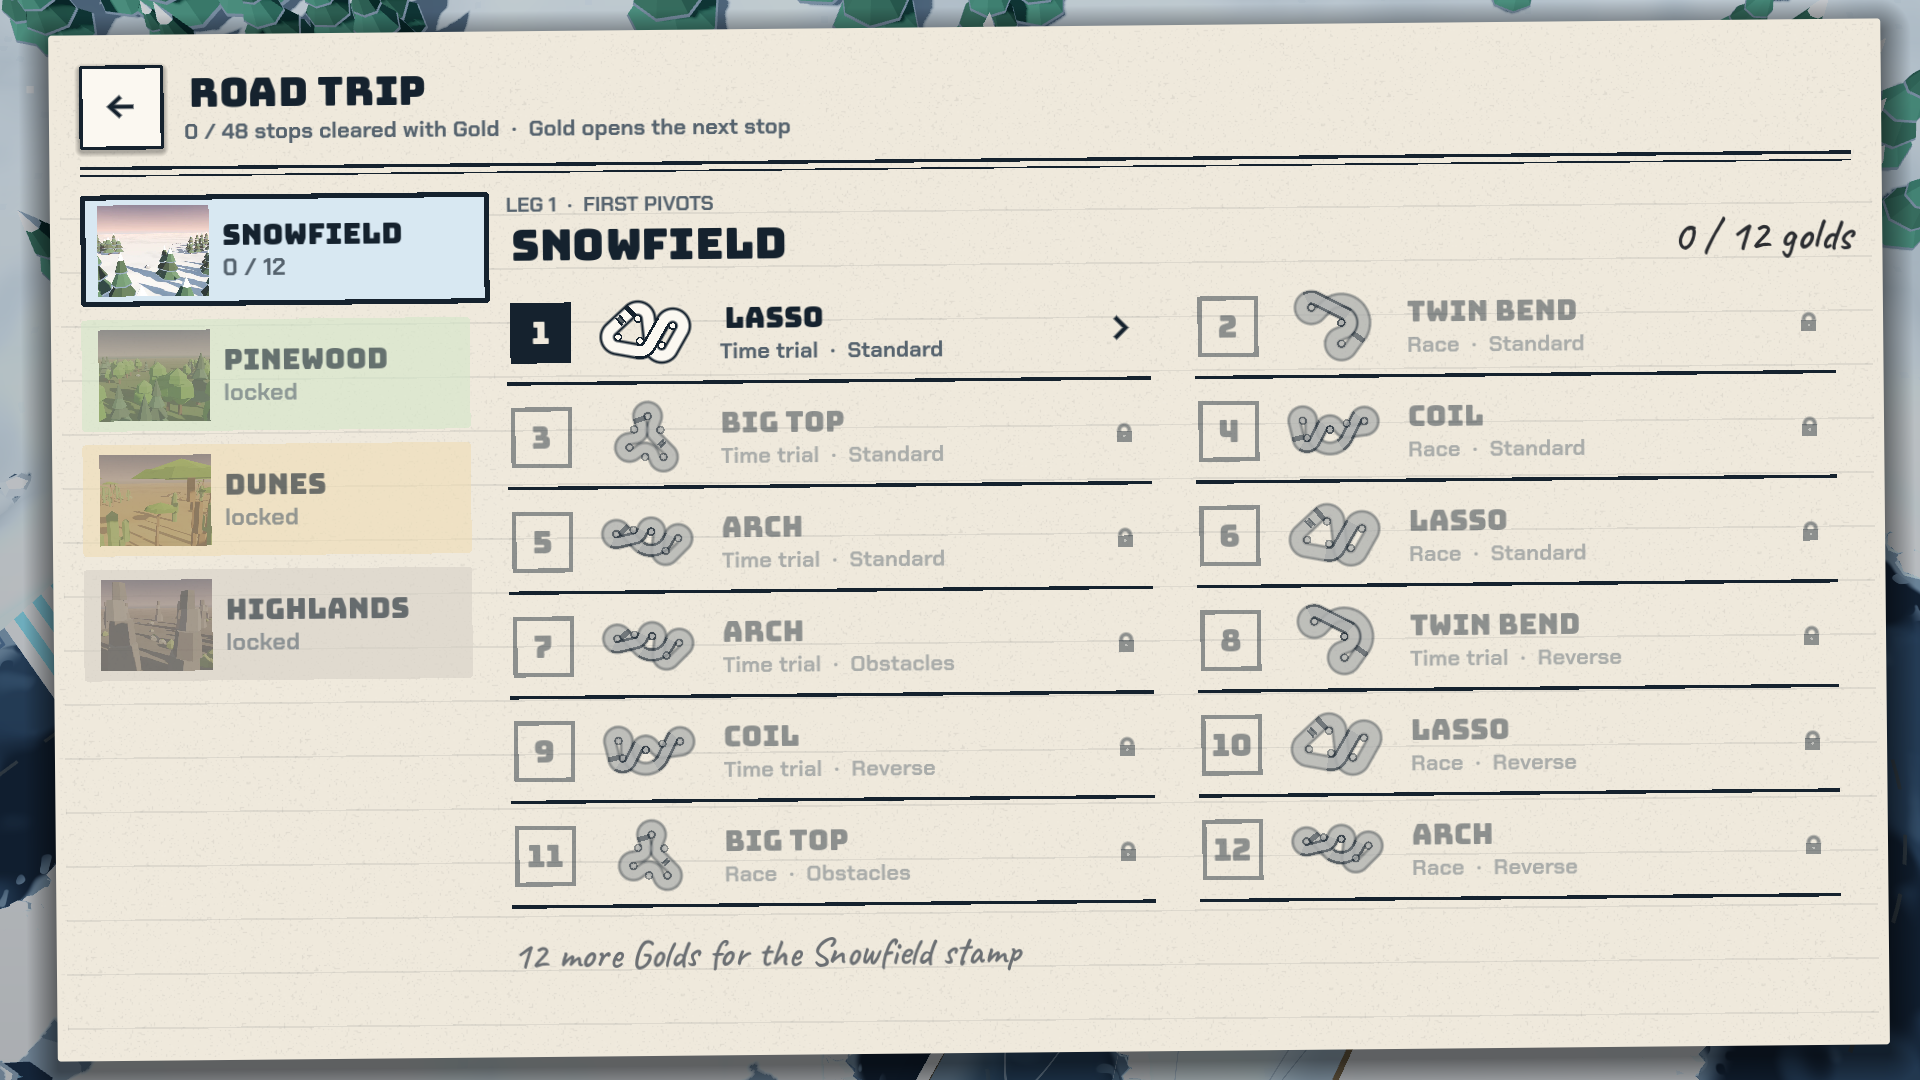
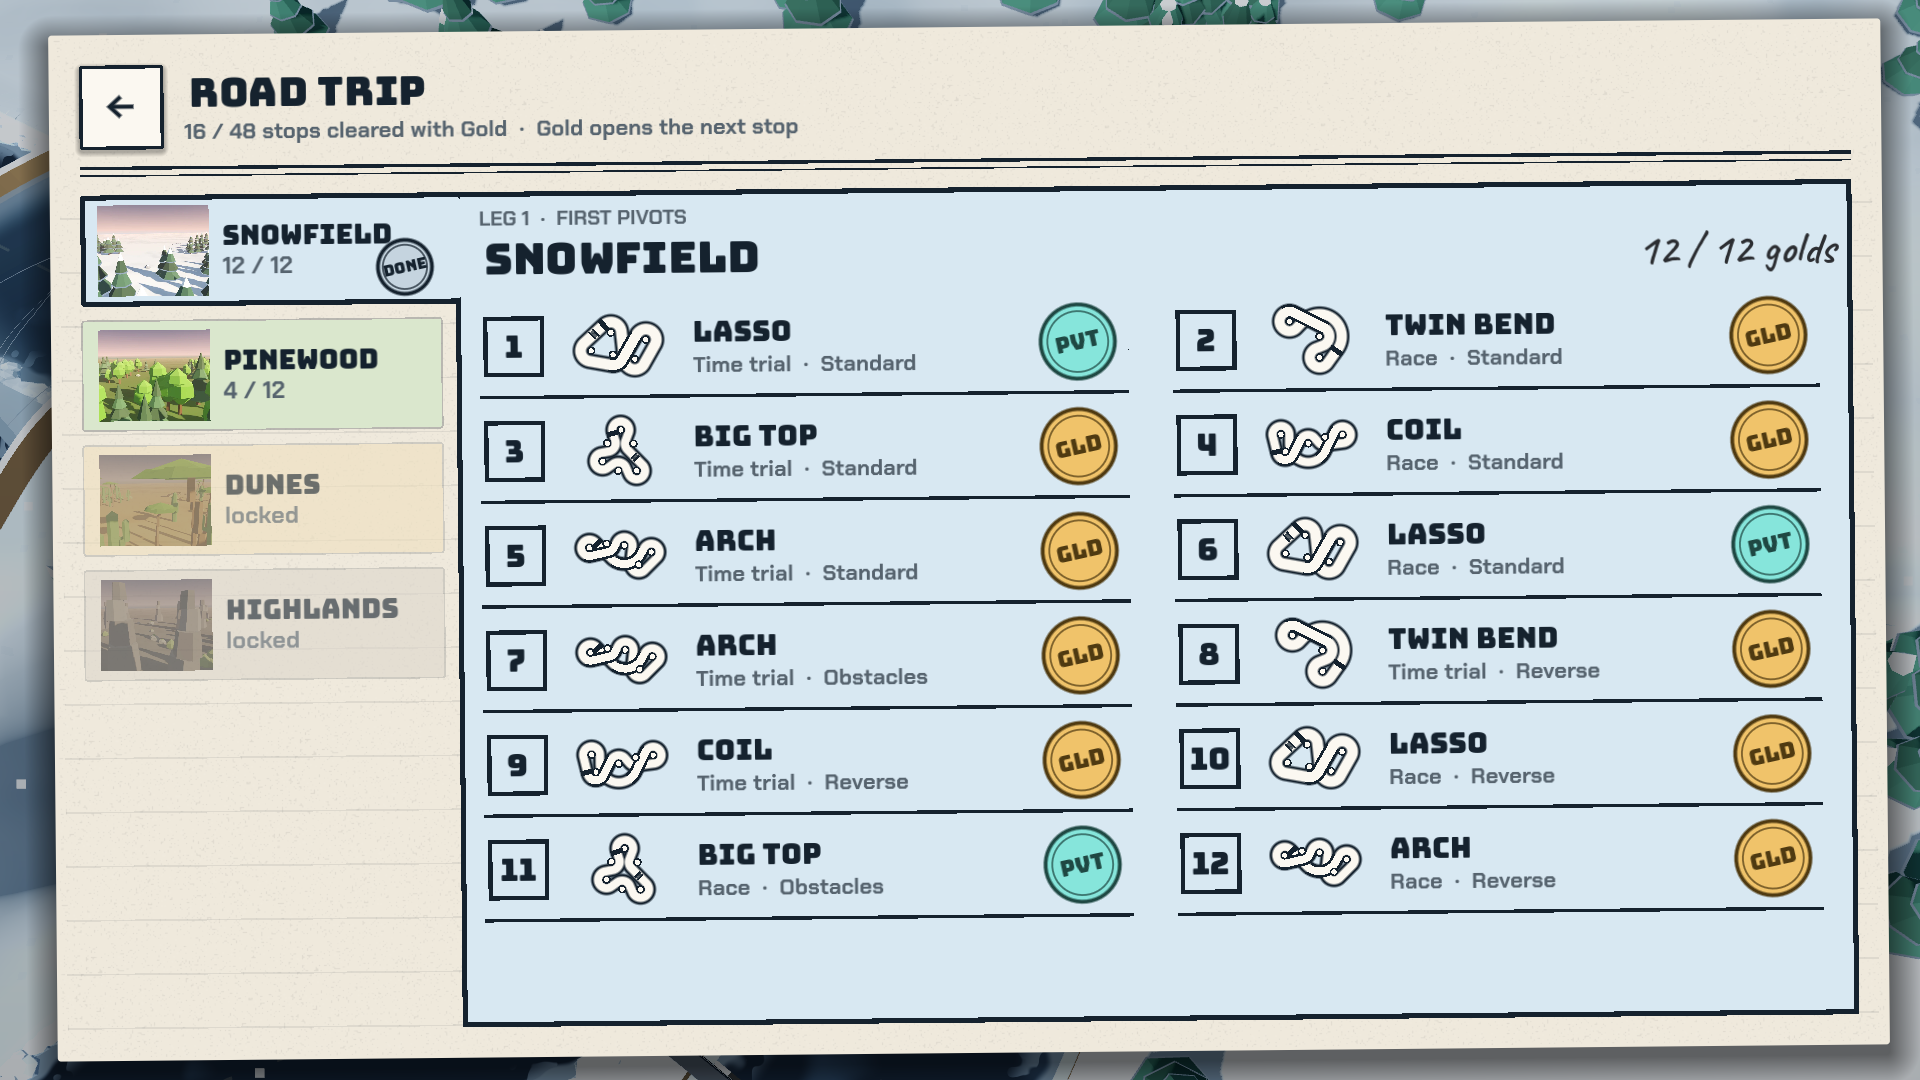
Road Trip in its worlds' colours: tinted divider pages, coloured medal stamps, world tape (#90)
Each world's stops lie on a page in that world's tint, joined to its open
tab like a notebook divider; portrait shows the world's photo by its name,
the name has a marker in the world's colour, medals are stamped filled in
their own metal and open worlds' photos are held by tape in their colour.
A phone held sideways gets one column of stops so names are no longer cut.
Store screenshot 06 re-rendered; test tests/road_trip_colour_test.gd.

Claude-Session: https://claude.ai/code/session_01VxP4fqdAPuwWpkdYV4h3gM

diff --git a/AGENTS.md b/AGENTS.md
@@ -66,6 +66,7 @@ godot --headless --path . --script tests/obstacles_test.gd # the AI's line never
 godot --headless --path . --script tests/camera_test.gd    # low camera shots: off while racing, never inside the land
 godot --headless --path . --script tests/engine_test.gd    # every vehicle has an engine sound that loops cleanly
 godot --headless --path . --script tests/underpass_test.gd # all deck over a lower lane is a see-through window
+godot --headless --path . --script tests/road_trip_colour_test.gd # Road Trip pages in their world's colour, stop names fit
 ```
 
 After changing a track layout, rerun `tools/gen_obstacles.gd` (posts placed off the AI's racing line,
@@ -139,6 +140,12 @@ Only redo the ones where the change is visible, and put before/after images in t
   Gold on all 12 events finishes a world (`Campaign.cleared`, `Campaign.GOLD`). Finished worlds are
   saved as `done_<theme>` flags, so a stricter rule never re-locks a world; an event that already
   has a medal stays playable. Covered by `tests/economy_test.gd`.
+- World colour on paper (Guillaume, 2026-11-14: the Road Trip page "looked sad"): colour on the
+  menus comes from content, never from a UI accent. A world's own colours are `Menu.WORLD_TINT`
+  (pale page/tab) and `Menu.WORLD_INK` (its marker band and its photo tape, `Menu.world_tape()`);
+  medals are stamped filled in their metal (`Menu.medal_stamp()`, `Stamp.fill`). The Road Trip
+  events lie on a page in the open world's tint, joined to its tab like a notebook divider.
+  Landscape on a phone (~800 logical px wide) gets one column of stops: two cut the names.
 - Time attack tracks (Guillaume, 2026-11-13): a track is open in Time attack once a campaign event on
   it is unlocked (`Campaign.attack_tracks()`); shut ones are greyed with a padlock and skipped by the
   swipe. Tracks raced before the rule were kept as `[attack]` flags (`attack_gate`). So every track
